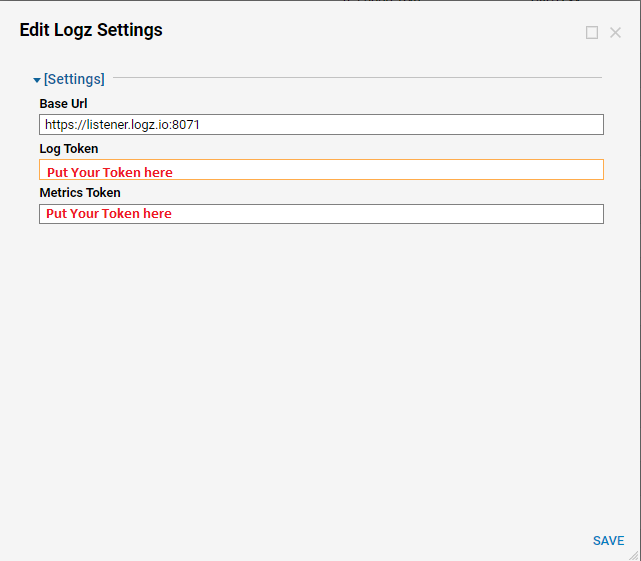
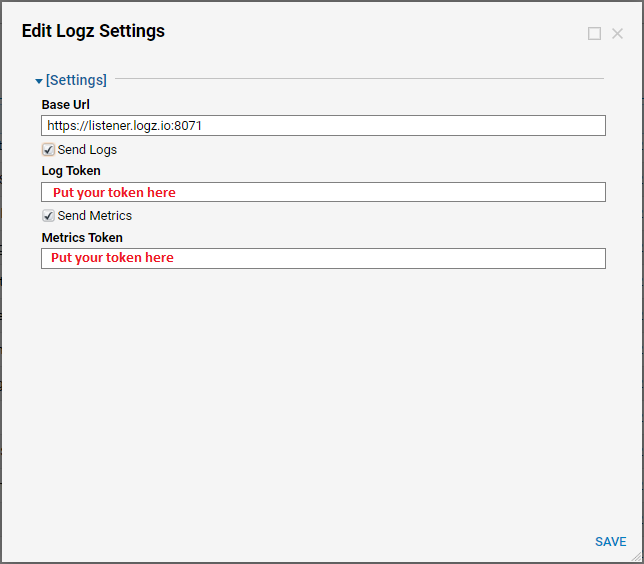
Modules's settings were improved

diff --git a/Decisions.Monitoring.Logz.io/LogzSettings.cs b/Decisions.Monitoring.Logz.io/LogzSettings.cs
@@ -4,6 +4,7 @@ using DecisionsFramework.ServiceLayer;
 using DecisionsFramework.ServiceLayer.Actions;
 using DecisionsFramework.ServiceLayer.Actions.Common;
 using DecisionsFramework.ServiceLayer.Utilities;
+using DecisionsFramework.Utilities.validation.Rules;
 using System;
 using System.Collections.Generic;
 using System.Linq;
@@ -20,16 +21,29 @@ namespace Decisions.Monitoring.Logz.io.Data
         [ORMField]
         [DataMember]
         [PropertyClassificationAttribute("Base Url", 1)]
+        [EmptyStringRule("Base Url is required")]
         public string BaseUrl { get; set; }
 
         [ORMField]
         [DataMember]
-        [PropertyClassificationAttribute("Log Token", 2)]
+        [PropertyClassificationAttribute("Send Logs", 2)]
+        public bool SendLogs { get; set; }
+
+        [ORMField]
+        [DataMember]
+        [PropertyHiddenByValue(nameof(SendLogs), false, true)]
+        [PropertyClassificationAttribute("Log Token", 3)]
         public string LogToken { get; set; }
 
         [ORMField]
         [DataMember]
-        [PropertyClassificationAttribute("Metrics Token", 3)]
+        [PropertyClassificationAttribute("Send Metrics", 4)]
+        public bool SendMetrics { get; set; }
+
+        [ORMField]
+        [DataMember]
+        [PropertyHiddenByValue(nameof(SendMetrics), false, true)]
+        [PropertyClassificationAttribute("Metrics Token", 5)]
         public string MetricsToken { get; set; }
 
         public override BaseActionType[] GetActions(AbstractUserContext userContext, EntityActionType[] types)

diff --git a/Decisions.Monitoring.Logz.io/Utility/CredentialHelper.cs b/Decisions.Monitoring.Logz.io/Utility/CredentialHelper.cs
@@ -17,9 +17,9 @@ namespace Decisions.Monitoring.Logz.io.Utility
                 LogzSettings settings = ModuleSettingsAccessor<LogzSettings>.GetSettings();
                 return new LogzCredential()
                 {
-                    BaseUrl = settings.BaseUrl,
-                    LogToken = settings.LogToken,
-                    MetricsToken = settings.MetricsToken
+                    BaseUrl =  settings.BaseUrl,
+                    LogToken = settings.SendLogs ? settings.LogToken : "",
+                    MetricsToken = settings.SendMetrics ? settings.MetricsToken : ""
                 };
             }
         }
